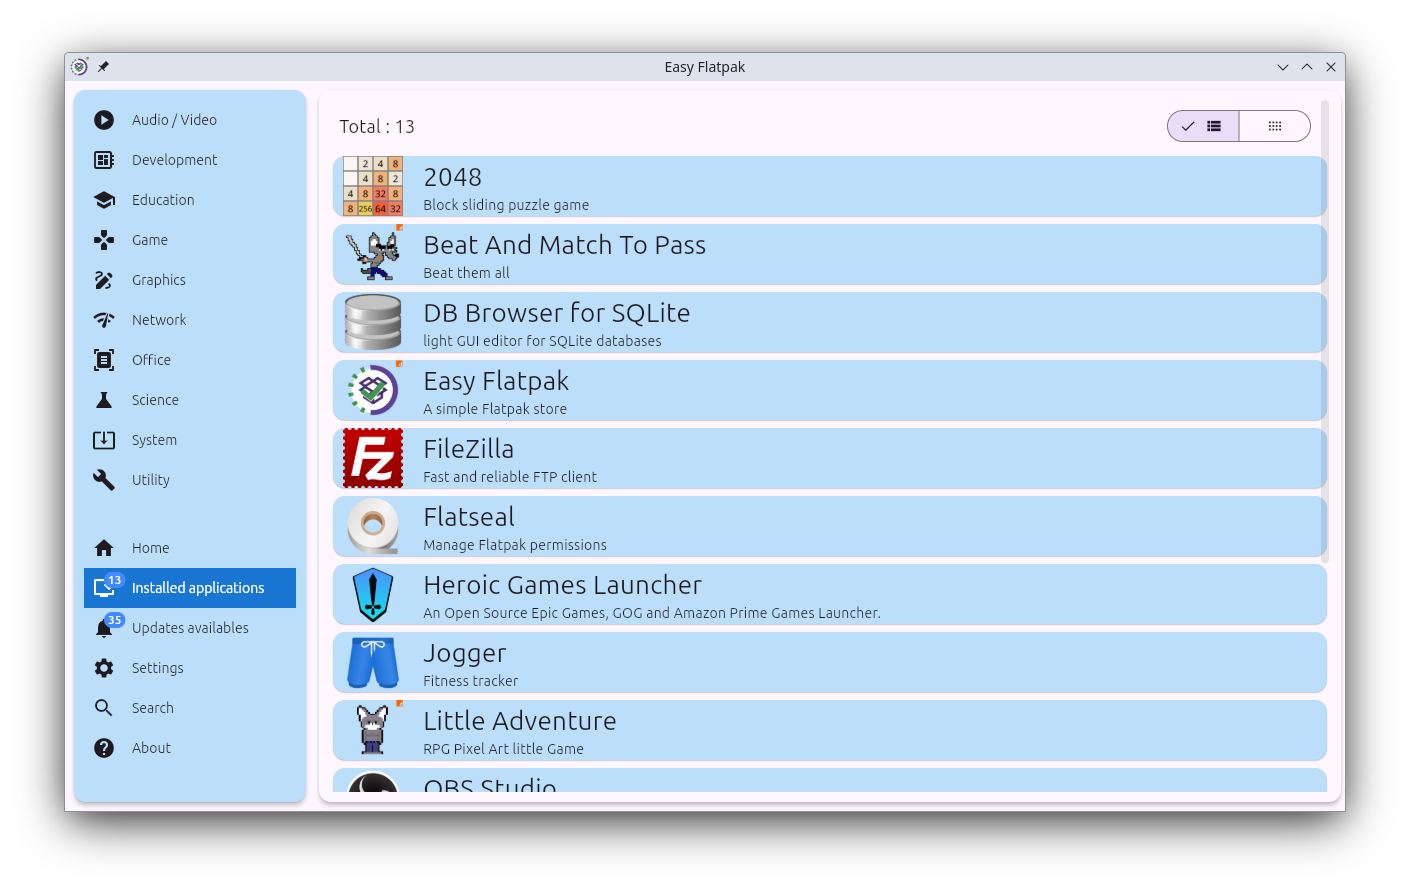
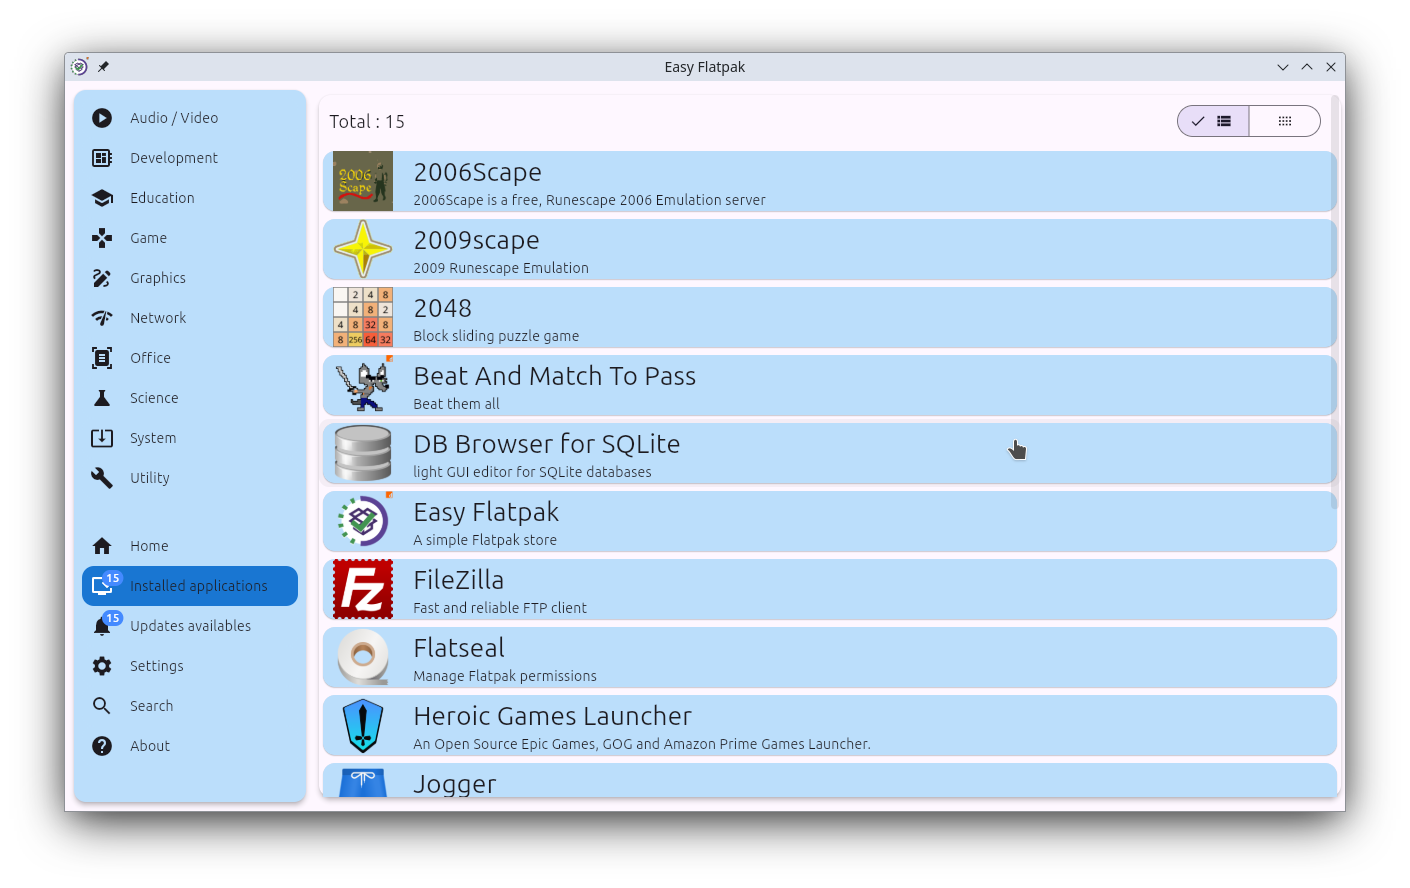
update screenshots

diff --git a/lib/Infrastructure/Screen/View/side_menu_view.dart b/lib/Infrastructure/Screen/View/side_menu_view.dart
@@ -107,7 +107,7 @@ class _SideMenuViewState extends State<SideMenuView> {
     themeTextStyle = ThemeTextStyle(context: context);
 
     return ListView(
-      padding: const EdgeInsets.all(10),
+      padding: const EdgeInsets.all(8),
       children: [
         Column(
           children: stateCategoryMenuItemList
@@ -153,7 +153,7 @@ class _SideMenuViewState extends State<SideMenuView> {
     }
 
     return InkWell(
-        borderRadius: BorderRadius.circular(10.0),
+        borderRadius: BorderRadius.circular(8.0),
         onTap: widget.argumentMapSelected
                 .containsKey(NavigationEntity.argumentSubPage)
             ? null
@@ -162,6 +162,8 @@ class _SideMenuViewState extends State<SideMenuView> {
               },
         child: Card(
             color: themeTextStyle.getHeadlineBackgroundColor(isSelected),
+            elevation: 0,
+            margin: const EdgeInsets.all(0),
             child: Row(
               children: [
                 menuItemLoop.badge.isNotEmpty
